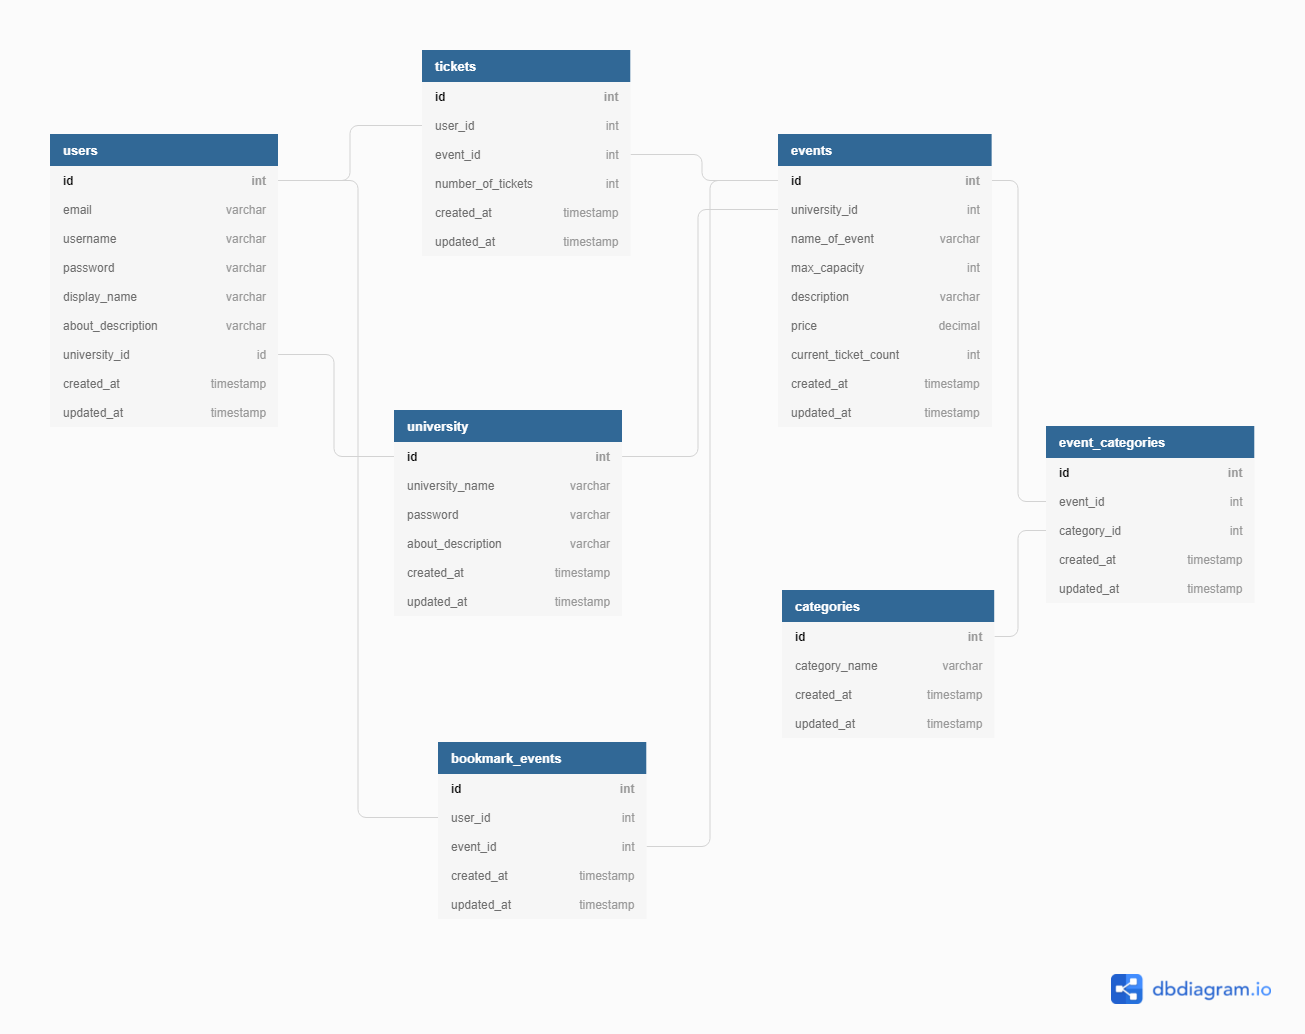
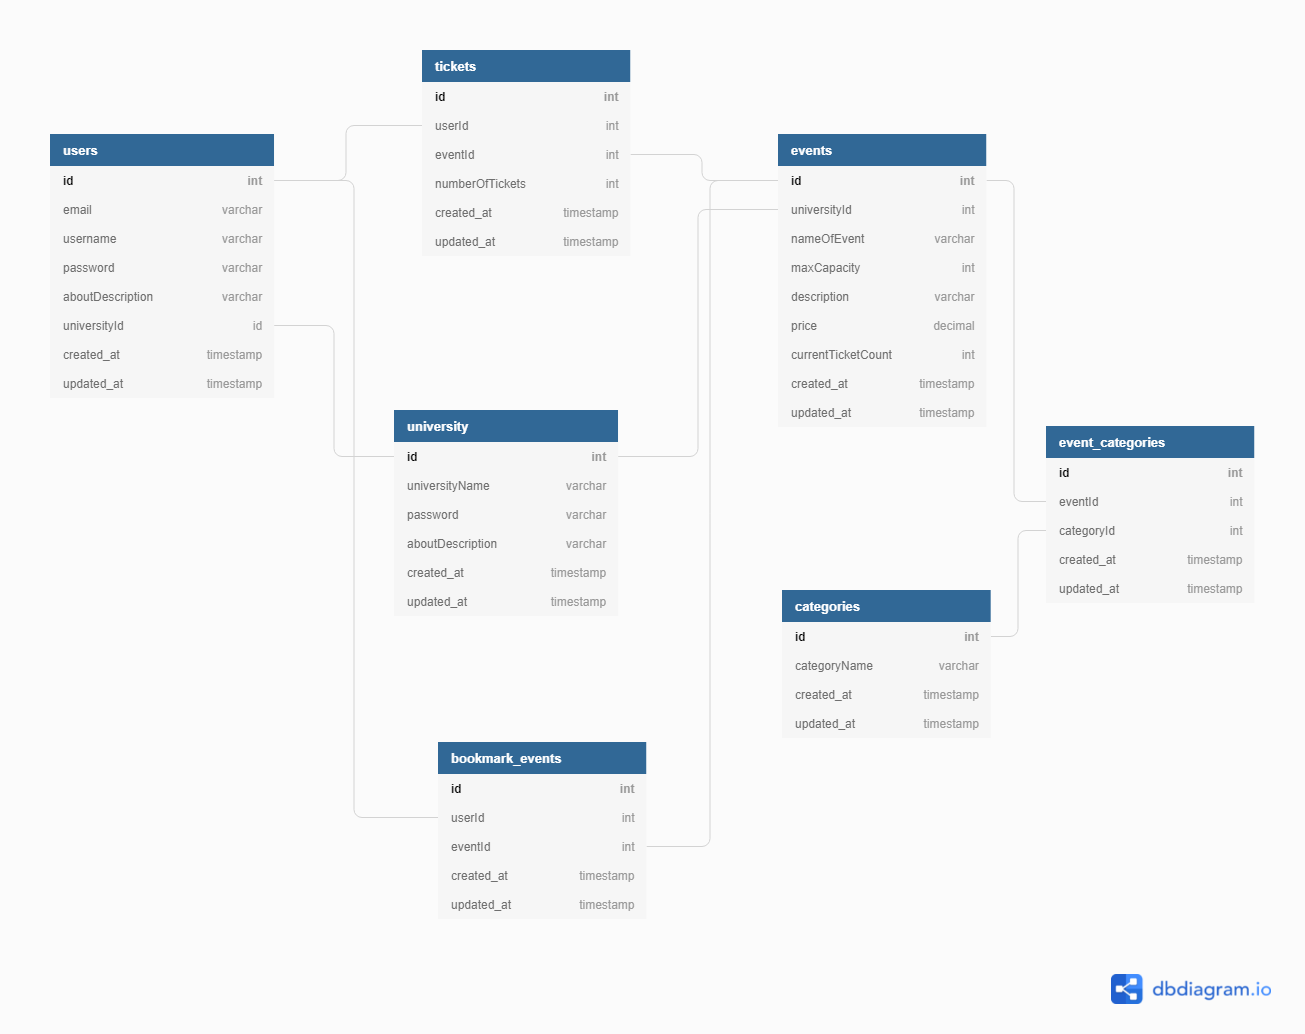
added all migration files and updated DB based off migrations

diff --git a/backend/db/migrations/20211012061540-create-event.js b/backend/db/migrations/20211012061540-create-event.js
@@ -1,0 +1,42 @@
+'use strict';
+module.exports = {
+  up: (queryInterface, Sequelize) => {
+    return queryInterface.createTable('Events', {
+      id: {
+        allowNull: false,
+        autoIncrement: true,
+        primaryKey: true,
+        type: Sequelize.INTEGER
+      },
+      universityId: {
+        type: Sequelize.INTEGER
+      },
+      nameOfEvent: {
+        type: Sequelize.STRING
+      },
+      maxCapacity: {
+        type: Sequelize.INTEGER
+      },
+      description: {
+        type: Sequelize.STRING
+      },
+      price: {
+        type: Sequelize.DECIMAL
+      },
+      currentTicketCount: {
+        type: Sequelize.INTEGER
+      },
+      createdAt: {
+        allowNull: false,
+        type: Sequelize.DATE
+      },
+      updatedAt: {
+        allowNull: false,
+        type: Sequelize.DATE
+      }
+    });
+  },
+  down: (queryInterface, Sequelize) => {
+    return queryInterface.dropTable('Events');
+  }
+};

diff --git a/backend/db/migrations/20210012061946-create-university.js b/backend/db/migrations/20210012061946-create-university.js
@@ -1,0 +1,33 @@
+'use strict';
+module.exports = {
+  up: (queryInterface, Sequelize) => {
+    return queryInterface.createTable('Universities', {
+      id: {
+        allowNull: false,
+        autoIncrement: true,
+        primaryKey: true,
+        type: Sequelize.INTEGER
+      },
+      universityName: {
+        type: Sequelize.STRING
+      },
+      hashedPassword: {
+        type: Sequelize.STRING
+      },
+      aboutDescription: {
+        type: Sequelize.STRING
+      },
+      createdAt: {
+        allowNull: false,
+        type: Sequelize.DATE
+      },
+      updatedAt: {
+        allowNull: false,
+        type: Sequelize.DATE
+      }
+    });
+  },
+  down: (queryInterface, Sequelize) => {
+    return queryInterface.dropTable('Universities');
+  }
+};

diff --git a/backend/db/migrations/20211012061541-create-ticket.js b/backend/db/migrations/20211012061541-create-ticket.js
@@ -1,0 +1,33 @@
+'use strict';
+module.exports = {
+  up: (queryInterface, Sequelize) => {
+    return queryInterface.createTable('Tickets', {
+      id: {
+        allowNull: false,
+        autoIncrement: true,
+        primaryKey: true,
+        type: Sequelize.INTEGER
+      },
+      userId: {
+        type: Sequelize.INTEGER
+      },
+      eventId: {
+        type: Sequelize.INTEGER
+      },
+      numberOfTickets: {
+        type: Sequelize.INTEGER
+      },
+      createdAt: {
+        allowNull: false,
+        type: Sequelize.DATE
+      },
+      updatedAt: {
+        allowNull: false,
+        type: Sequelize.DATE
+      }
+    });
+  },
+  down: (queryInterface, Sequelize) => {
+    return queryInterface.dropTable('Tickets');
+  }
+};

diff --git a/backend/db/migrations/20211012062741-create-event-category.js b/backend/db/migrations/20211012062741-create-event-category.js
@@ -1,0 +1,30 @@
+'use strict';
+module.exports = {
+  up: (queryInterface, Sequelize) => {
+    return queryInterface.createTable('EventCategories', {
+      id: {
+        allowNull: false,
+        autoIncrement: true,
+        primaryKey: true,
+        type: Sequelize.INTEGER
+      },
+      eventId: {
+        type: Sequelize.INTEGER
+      },
+      categoryId: {
+        type: Sequelize.INTEGER
+      },
+      createdAt: {
+        allowNull: false,
+        type: Sequelize.DATE
+      },
+      updatedAt: {
+        allowNull: false,
+        type: Sequelize.DATE
+      }
+    });
+  },
+  down: (queryInterface, Sequelize) => {
+    return queryInterface.dropTable('EventCategories');
+  }
+};

diff --git a/backend/db/migrations/20211012062732-create-bookmark-event.js b/backend/db/migrations/20211012062732-create-bookmark-event.js
@@ -1,0 +1,30 @@
+'use strict';
+module.exports = {
+  up: (queryInterface, Sequelize) => {
+    return queryInterface.createTable('BookmarkEvents', {
+      id: {
+        allowNull: false,
+        autoIncrement: true,
+        primaryKey: true,
+        type: Sequelize.INTEGER
+      },
+      userId: {
+        type: Sequelize.INTEGER
+      },
+      eventId: {
+        type: Sequelize.INTEGER
+      },
+      createdAt: {
+        allowNull: false,
+        type: Sequelize.DATE
+      },
+      updatedAt: {
+        allowNull: false,
+        type: Sequelize.DATE
+      }
+    });
+  },
+  down: (queryInterface, Sequelize) => {
+    return queryInterface.dropTable('BookmarkEvents');
+  }
+};

diff --git a/backend/db/migrations/20211012062615-create-category.js b/backend/db/migrations/20211012062615-create-category.js
@@ -1,0 +1,27 @@
+'use strict';
+module.exports = {
+  up: (queryInterface, Sequelize) => {
+    return queryInterface.createTable('Categories', {
+      id: {
+        allowNull: false,
+        autoIncrement: true,
+        primaryKey: true,
+        type: Sequelize.INTEGER
+      },
+      categoryName: {
+        type: Sequelize.STRING
+      },
+      createdAt: {
+        allowNull: false,
+        type: Sequelize.DATE
+      },
+      updatedAt: {
+        allowNull: false,
+        type: Sequelize.DATE
+      }
+    });
+  },
+  down: (queryInterface, Sequelize) => {
+    return queryInterface.dropTable('Categories');
+  }
+};

diff --git a/backend/db/models/event.js b/backend/db/models/event.js
@@ -1,0 +1,15 @@
+'use strict';
+module.exports = (sequelize, DataTypes) => {
+  const Event = sequelize.define('Event', {
+    universityId: DataTypes.INTEGER,
+    nameOfEvent: DataTypes.STRING,
+    maxCapacity: DataTypes.INTEGER,
+    description: DataTypes.STRING,
+    price: DataTypes.DECIMAL,
+    currentTicketCount: DataTypes.INTEGER
+  }, {});
+  Event.associate = function(models) {
+    // associations can be defined here
+  };
+  return Event;
+};

diff --git a/backend/db/models/university.js b/backend/db/models/university.js
@@ -1,0 +1,12 @@
+'use strict';
+module.exports = (sequelize, DataTypes) => {
+  const University = sequelize.define('University', {
+    universityName: DataTypes.STRING,
+    hashedPassword: DataTypes.STRING,
+    aboutDescription: DataTypes.STRING
+  }, {});
+  University.associate = function(models) {
+    // associations can be defined here
+  };
+  return University;
+};

diff --git a/backend/db/models/ticket.js b/backend/db/models/ticket.js
@@ -1,0 +1,12 @@
+'use strict';
+module.exports = (sequelize, DataTypes) => {
+  const Ticket = sequelize.define('Ticket', {
+    userId: DataTypes.INTEGER,
+    eventId: DataTypes.INTEGER,
+    numberOfTickets: DataTypes.INTEGER
+  }, {});
+  Ticket.associate = function(models) {
+    // associations can be defined here
+  };
+  return Ticket;
+};

diff --git a/backend/db/models/eventcategory.js b/backend/db/models/eventcategory.js
@@ -1,0 +1,11 @@
+'use strict';
+module.exports = (sequelize, DataTypes) => {
+  const EventCategory = sequelize.define('EventCategory', {
+    eventId: DataTypes.INTEGER,
+    categoryId: DataTypes.INTEGER
+  }, {});
+  EventCategory.associate = function(models) {
+    // associations can be defined here
+  };
+  return EventCategory;
+};

diff --git a/backend/db/models/bookmarkevent.js b/backend/db/models/bookmarkevent.js
@@ -1,0 +1,11 @@
+'use strict';
+module.exports = (sequelize, DataTypes) => {
+  const BookmarkEvent = sequelize.define('BookmarkEvent', {
+    userId: DataTypes.INTEGER,
+    eventId: DataTypes.INTEGER
+  }, {});
+  BookmarkEvent.associate = function(models) {
+    // associations can be defined here
+  };
+  return BookmarkEvent;
+};

diff --git a/backend/db/models/category.js b/backend/db/models/category.js
@@ -1,0 +1,10 @@
+'use strict';
+module.exports = (sequelize, DataTypes) => {
+  const Category = sequelize.define('Category', {
+    categoryName: DataTypes.STRING
+  }, {});
+  Category.associate = function(models) {
+    // associations can be defined here
+  };
+  return Category;
+};
